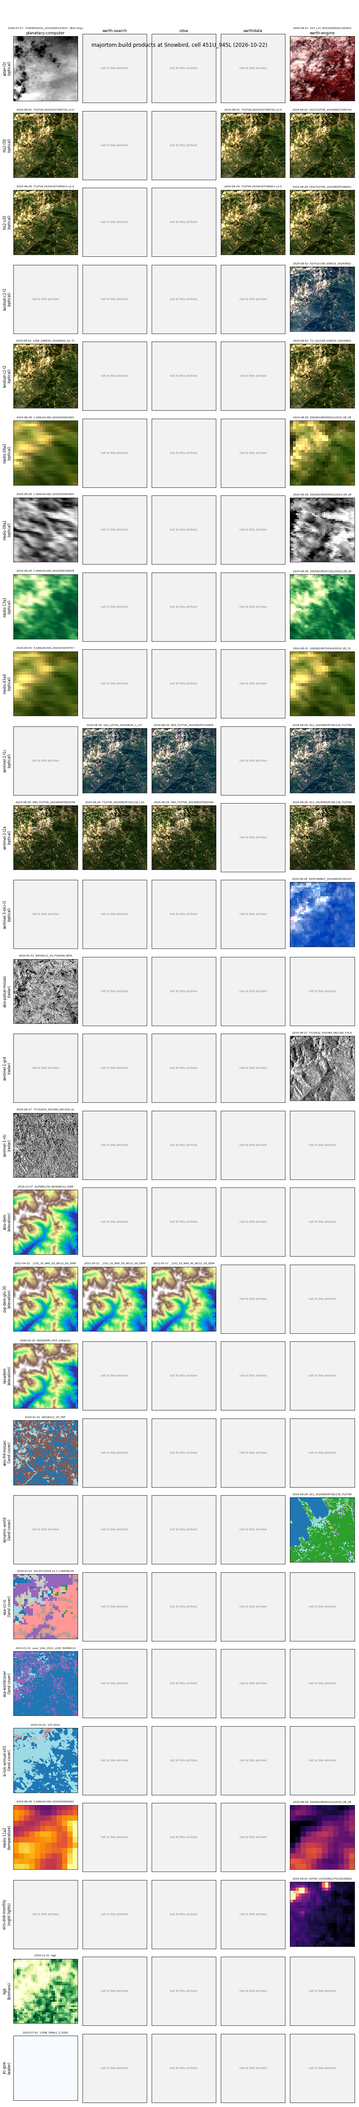
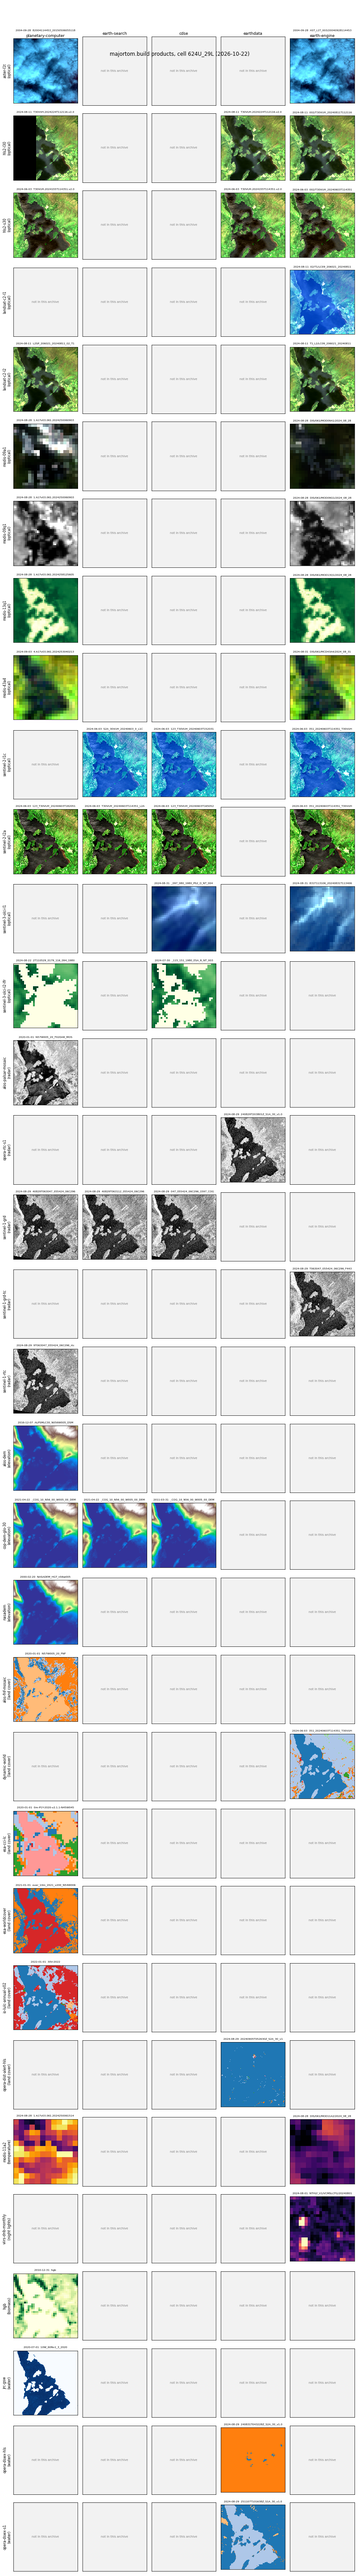
Builder: raw Sentinel-1 GRD, Sentinel-3 swaths, ASF access; gallery at Loch Lomond

diff --git a/majortom/build/backends/stac.py b/majortom/build/backends/stac.py
@@ -3,7 +3,8 @@
     search     STAC item search: one request per search (page size), retries, spacing for rate limits
     header     opens the asset's file header with GDAL
     read_tile  the file through a warped view (WarpedVRT) onto the window grid: nearest neighbour where the
-               file is already in the window's CRS (an exact copy), else the collection's resampling
+               file is already in the window's CRS (an exact copy), else the collection's resampling; files
+               with ground control points instead of a grid (raw Sentinel-1 GRD) are placed by those
     session    rasterio.Env with the archive's GDAL settings: credentials exist only inside it
 
 The GDAL settings per archive (public, unsigned S3, CDSE keys, Earthdata token) are defined here and named by
@@ -26,6 +27,7 @@ from rasterio.crs import CRS
 from rasterio.enums import Resampling
 from rasterio.session import Session
 from rasterio.vrt import WarpedVRT
+from rasterio.warp import reproject
 
 from ..collections import find_asset
 from ..credentials import cdse_keys, earthdata_token
@@ -93,10 +95,11 @@ def earthdata_env() -> dict:
     """GDAL settings for NASA Earthdata files: the token as bearer authentication, only while the Env is open.
 
     No HEAD request: Earthdata answers a HEAD with a link signed for HEAD only, and GDAL would reuse it for the
-    data reads (they then fail as "not recognized as being in a supported file format").
+    data reads (they then fail as "not recognized as being in a supported file format"). The token is kept on
+    redirects: ASF sends reads on to a second host (cumulus.asf.alaska.edu) that needs it too.
     """
     return dict(GDAL_OPTIONS, GDAL_HTTP_AUTH="BEARER", GDAL_HTTP_BEARER=earthdata_token(),
-                CPL_VSIL_CURL_USE_HEAD="NO")
+                CPL_VSIL_CURL_USE_HEAD="NO", CPL_VSIL_CURL_AUTHORIZATION_HEADER_ALLOWED_IF_REDIRECT="YES")
 
 
 # the four backend functions -----------------------------------------------------------------------------------
@@ -132,15 +135,20 @@ def search(archive: Archive, collection: str, sortby: list[dict] | None = None, 
     return retry(run, archive.retries)
 
 
-def _split(key: str) -> tuple[str, int | None]:
-    """An asset key, or "ASSET#n" for band n (1-based) of a multi-band file (ASTER's VNIR, SWIR, TIR)."""
+def _split(key: str) -> tuple[str, int | None, str | None]:
+    """An asset key; "ASSET#n" for band n (1-based) of a multi-band file (ASTER's VNIR, SWIR, TIR);
+    "ASSET:VARIABLE" for a variable of a netCDF swath placed by latitude and longitude (Sentinel-3)."""
+    key, _, variable = key.partition(":")
     asset, _, band = key.partition("#")
-    return asset, (int(band) if band else None)
+    return asset, (int(band) if band else None), (variable or None)
 
 
 def header(archive: Archive, item: pystac.Item, key: str) -> tuple[CRS, rasterio.Affine]:
-    """CRS and geotransform of one asset, from its file header."""
-    with rasterio.open(item.assets[find_asset(item, _split(key)[0])].href) as src:
+    """CRS and geotransform of one asset, from its file header (a swath: latitude/longitude, no grid)."""
+    asset, _, variable = _split(key)
+    if variable:
+        return CRS.from_epsg(4326), rasterio.Affine.identity()
+    with rasterio.open(item.assets[find_asset(item, asset)].href) as src:
         return src.crs, src.transform
 
 
@@ -148,8 +156,12 @@ def read_tile(archive: Archive, item: pystac.Item, key: str, win: Window, res: f
               method: str) -> tuple[np.ndarray, np.ndarray]:
     """One file onto the window grid: (bands, covered pixels). Pixels outside the file are 0."""
     n = win.pixels(res)
-    asset, band = _split(key)
+    asset, band, variable = _split(key)
+    if variable:
+        return _read_swath(item, asset, variable, win, res, n, Resampling[method])
     with rasterio.open(item.assets[find_asset(item, asset)].href) as src:
+        if src.crs is None and src.gcps[0]:
+            return _read_by_gcps(src, band, win, res, n, Resampling[method])
         same_crs = src.crs == CRS.from_user_input(win.crs)
         resampling = Resampling.nearest if same_crs else Resampling[method]
         with WarpedVRT(src, crs=win.crs, transform=win.transform(res), width=n, height=n,
@@ -158,6 +170,80 @@ def read_tile(archive: Archive, item: pystac.Item, key: str, win: Window, res: f
             indexes = None if band is None else [band, vrt.count]   # one band and the alpha band
             tile = retry(lambda: vrt.read(indexes))      # bands, then alpha (0 = not covered)
     return tile[:-1], tile[-1] > 0
+
+
+def _read_by_gcps(src, band: int | None, win: Window, res: float, n: int,
+                  resampling: Resampling) -> tuple[np.ndarray, np.ndarray]:
+    """A file placed by ground control points (raw Sentinel-1 GRD) onto the window grid: no terrain correction.
+
+    GDAL reads only the part of the file the window needs. 0 is "no data" in these files, so it marks coverage.
+    """
+    gcps, gcps_crs = src.gcps
+    bands = [band] if band else list(range(1, src.count + 1))
+    out = np.zeros((len(bands), n, n), src.dtypes[0])
+    for i, b in enumerate(bands):
+        retry(lambda: reproject(rasterio.band(src, b), out[i], gcps=gcps, src_crs=gcps_crs, src_nodata=0,
+                                dst_transform=win.transform(res), dst_crs=win.crs, dst_nodata=0,
+                                resampling=resampling))
+    return out, (out != 0).any(axis=0)
+
+
+def _gdal_path(href: str, variable: str) -> str:
+    """GDAL's name for one variable of a remote netCDF-4 (HDF5) file."""
+    path = "/vsis3/" + href[5:] if href.startswith("s3://") else f"/vsicurl/{href}"
+    return f'HDF5:"{path}"://{variable}'
+
+
+@lru_cache(maxsize=32)                                 # the bands of one sample share the scene's coordinates
+def _read_scaled(href: str, variable: str, block: tuple[int, int, int, int] | None = None
+                 ) -> tuple[np.ndarray, float | None]:
+    """A variable, or a block of it (col, row, width, height), with its CF scale and offset applied (fill: NaN)."""
+    from rasterio.windows import Window as Block
+
+    with rasterio.open(_gdal_path(href, variable)) as src:
+        raw = retry(lambda: src.read(1, window=Block(*block) if block else None))
+        fill = src.nodata
+        values = raw.astype("float32") * src.scales[0] + src.offsets[0]
+        if fill is not None:
+            values[raw == fill] = np.nan
+    return values, fill
+
+
+def _read_swath(item: pystac.Item, asset: str, variable: str, win: Window, res: float, n: int,
+                resampling: Resampling) -> tuple[np.ndarray, np.ndarray]:
+    """A Sentinel-3 swath variable onto the window grid, placed by its latitude and longitude arrays.
+
+    The tie-point coordinates (every 64th column) locate the block of rows and columns around the window; only
+    that block of the variable and of the full-resolution coordinates is read. Values are physical (CF scale and
+    offset applied); pixels without data, or outside the swath, are NaN and not covered.
+    """
+    from rasterio.warp import transform_bounds
+
+    west, south, east, north = transform_bounds(win.crs, "EPSG:4326", *win.bounds, densify_pts=21)
+    pad = 0.05
+    tie = item.assets[find_asset(item, "tie-geo-coordinates")].href
+    tie_lat, _ = _read_scaled(tie, "latitude")
+    tie_lon, _ = _read_scaled(tie, "longitude")
+    rows, cols = np.nonzero((tie_lat > south - pad) & (tie_lat < north + pad) &
+                            (tie_lon > west - pad) & (tie_lon < east + pad))
+    out = np.full((1, n, n), np.nan, "float32")
+    if not rows.size:
+        return out, np.zeros((n, n), bool)
+    geo, data = item.assets[find_asset(item, "geo-coordinates")].href, item.assets[find_asset(item, asset)].href
+    with rasterio.open(_gdal_path(geo, "latitude")) as src:
+        height, width = src.height, src.width
+    step = width // (tie_lat.shape[1] - 1) if tie_lat.shape[1] > 1 else 1
+    r0, r1 = max(rows.min() - 2, 0), min(rows.max() + 3, height)
+    c0, c1 = max((cols.min() - 1) * step, 0), min((cols.max() + 2) * step, width)
+    block = (int(c0), int(r0), int(c1 - c0), int(r1 - r0))
+    lat, _ = _read_scaled(geo, "latitude", block)
+    lon, _ = _read_scaled(geo, "longitude", block)
+    values, _ = _read_scaled(data, variable, block)
+    located = np.stack([lon, lat]).astype("float64")    # GDAL needs float64 coordinates, longitude first
+    retry(lambda: reproject(values, out[0], src_geoloc_array=located, src_crs=CRS.from_epsg(4326),
+                            src_nodata=np.nan, dst_transform=win.transform(res), dst_crs=CRS.from_user_input(win.crs),
+                            dst_nodata=np.nan, resampling=resampling))
+    return out, np.isfinite(out[0])
 
 
 @contextmanager

diff --git a/majortom/build/collections.py b/majortom/build/collections.py
@@ -43,7 +43,7 @@ def find_asset(item: pystac.Item, name: str) -> str | None:
 
 def declared_band(item: pystac.Item, key: str) -> dict:
     """The raster:bands entry for an asset key ("ASSET#n": band n of a multi-band asset), or {}."""
-    asset, _, n = key.partition("#")
+    asset, _, n = key.partition(":")[0].partition("#")
     fields = item.assets[find_asset(item, asset)].extra_fields
     bands = fields.get("raster:bands") or fields.get("bands") or []
     index = int(n) - 1 if n else 0
@@ -88,8 +88,9 @@ class Source:
         return self.assets.get(band, band)
 
     def asset(self, band: str) -> str:
-        """The item asset holding `band` (a key "VNIR#2" is band 2 of asset VNIR)."""
-        return self.key(band).partition("#")[0]
+        """The item asset holding `band` (a key "VNIR#2" is band 2 of asset VNIR; "otci:OTCI" variable OTCI of
+        the netCDF asset otci)."""
+        return self.key(band).partition("#")[0].partition(":")[0]
 
 
 @dataclass(frozen=True)
@@ -155,6 +156,7 @@ S2_CDSE_L2A = {"B01": "B01_60m", "B02": "B02_10m", "B03": "B03_10m", "B04": "B04
                "B11": "B11_20m", "B12": "B12_20m", "SCL": "SCL_20m"}     # native resolution of each band
 S2_PERIOD = ("2015-06-27", None)
 DSWX = {"WTR": "B01_WTR", "BWTR": "B02_BWTR", "CONF": "B03_CONF"}   # OPERA DSWx: band numbers in the asset names
+LFR = {"GIFAPAR": "gifapar:GIFAPAR", "OTCI": "otci:OTCI", "IWV": "iwv:IWV"}   # netCDF asset : variable
 
 
 @dataclass(frozen=True)
@@ -305,13 +307,26 @@ COLLECTIONS = {
     "viirs-dnb-monthly": Collection(("avg_rad", "cf_cvg"), res_m=500, kind="night lights",   # nW/cm2/sr, cloud-free
                                     sources={"earth-engine": Source("NOAA/VIIRS/DNB/MONTHLY_V1/VCMSLCFG",
                                                                     period=("2014-01-01", None))}),
+    # Sentinel-3 OLCI: swaths; CDSE and Planetary Computer files are netCDF placed by their latitude and longitude
     "sentinel-3-olci-l1": Collection(OLCI, res_m=300, native=False, fill=0,   # top-of-atmosphere radiance
-                                     sources={"earth-engine": Source("COPERNICUS/S3/OLCI",
-                                                                     period=("2016-10-18", None))}),
+                                     sources={"earth-engine": Source("COPERNICUS/S3/OLCI", period=("2016-10-18", None)),
+                                              "cdse": Source("sentinel-3-olci-1-efr-ntc",
+                                                             {b: f"{b}Data:{b}" for b in OLCI},
+                                                             period=("2020-04-16", None))}),
+    "sentinel-3-olci-l2-lfr": Collection(("GIFAPAR", "OTCI", "IWV"), res_m=300, native=False,   # land products
+                                         sources={"planetary-computer": Source("sentinel-3-olci-lfr-l2-netcdf", LFR,
+                                                                               period=("2016-04-25", None)),
+                                                  "cdse": Source("sentinel-3-olci-2-lfr-ntc", LFR,
+                                                                 period=("2016-04-25", None))}),
     "sentinel-1-rtc": Collection(("vv", "vh"), kind="radar",       # backscatter (gamma0, linear), UTM 10 m; no clouds
                                  period=("2014-10-10", None)),
-    "sentinel-1-grd": Collection(("vv", "vh"), kind="radar",   # terrain-corrected by Earth Engine; backscatter in dB
-                                 sources={"earth-engine": Source("COPERNICUS/S1_GRD", period=("2014-10-03", None))}),
+    # raw GRD: amplitude digital numbers, placed with the files' ground control points (no terrain correction)
+    "sentinel-1-grd": Collection(("vv", "vh"), kind="radar", res_m=10, native=False,
+                                 sources={"planetary-computer": Source("sentinel-1-grd", period=("2014-10-10", None)),
+                                          "earth-search": Source("sentinel-1-grd", period=("2014-10-10", None)),
+                                          "cdse": Source("sentinel-1-grd", period=("2014-10-04", None))}),
+    "sentinel-1-grd-tc": Collection(("vv", "vh"), kind="radar",  # terrain-corrected by Earth Engine; backscatter in dB
+                                    sources={"earth-engine": Source("COPERNICUS/S1_GRD", period=("2014-10-03", None))}),
     # OPERA (NASA JPL): analysis-ready products from Sentinel-1 and HLS, UTM 30 m; asset keys found by suffix
     "opera-rtc-s1": Collection(("VV", "VH"), kind="radar",          # gamma0 backscatter, linear; one burst per item
                                sources={"earthdata": Source("ASF/OPERA_L2_RTC-S1_V1_1", period=("2016-04-14", None))}),

diff --git a/docs/evidence/gallery.py b/docs/evidence/gallery.py
@@ -38,8 +38,10 @@ RGB = {                                                            # red, green,
     "sentinel-3-olci-l1": ("Oa08_radiance", "Oa06_radiance", "Oa03_radiance"),
 }
 ONE = {                                                            # one band and a colour map per product
+    "sentinel-3-olci-l2-lfr": ("OTCI", "YlGn"),                    # OLCI terrestrial chlorophyll index
     "modis-09q1": ("sur_refl_b02", "gray"), "modis-13q1": ("NDVI", "YlGn"), "modis-11a2": ("LST_Day_1km", "inferno"),
-    "sentinel-1-rtc": ("vv", "gray"), "sentinel-1-grd": ("vv", "gray"), "alos-palsar-mosaic": ("HH", "gray"),
+    "sentinel-1-rtc": ("vv", "gray"), "sentinel-1-grd": ("vv", "gray"), "sentinel-1-grd-tc": ("vv", "gray"),
+    "alos-palsar-mosaic": ("HH", "gray"),
     "cop-dem-glo-30": ("DEM", "terrain"), "nasadem": ("elevation", "terrain"), "alos-dem": ("data", "terrain"),
     "opera-rtc-s1": ("VV", "gray"), "hgb": ("aboveground", "YlGn"), "jrc-gsw": ("occurrence", "Blues"),
     "viirs-dnb-monthly": ("avg_rad", "magma"),
@@ -62,6 +64,8 @@ def physical(meta: dict, arrays, band: str) -> np.ndarray:
         values = (values - offset) * 0.0001
     if band.lower() in ("vv", "vh") and meta["collection"] in ("sentinel-1-rtc", "opera-rtc-s1"):   # linear -> dB
         values = 10 * np.log10(np.clip(values, 1e-5, None))
+    elif meta["collection"] == "sentinel-1-grd":                         # amplitude DN -> 20 log10, uncalibrated
+        values = 20 * np.log10(np.clip(values, 1, None))
     if meta["collection"] == "alos-palsar-mosaic":                       # DN -> gamma0 dB (JAXA formula)
         values = 10 * np.log10(np.clip(values, 1, None) ** 2) - 83
     return values
@@ -76,8 +80,10 @@ def image(name: str, meta: dict, arrays) -> tuple[np.ndarray, str | None]:
     if name in ONE:
         band, cmap = ONE[name]
         return physical(meta, arrays, band), cmap
-    if name in CLASSES:
-        return physical(meta, arrays, CLASSES[name]), "tab20"
+    if name in CLASSES:                                          # classes: one colour per class present
+        values = physical(meta, arrays, CLASSES[name])
+        _, index = np.unique(values, return_inverse=True)
+        return index.reshape(values.shape).astype(float), "tab20"
     return physical(meta, arrays, meta["bands"][0]), "gray"
 
 
@@ -109,7 +115,7 @@ def main(samples: Path, date: str) -> Path:
             ax.set_xticks([]), ax.set_yticks([])
             if archive in found:
                 meta, im, cmap = found[archive]
-                low, high = limits[cmap]
+                low, high = (0, 19) if cmap == "tab20" else limits[cmap]
                 shown = np.clip((im - low) / (high - low or 1), 0, 1)
                 ax.imshow(shown if cmap is None else im, cmap=cmap, vmin=None if cmap is None else low,
                           vmax=None if cmap is None else high, interpolation="nearest")

diff --git a/docs/evidence/build_speed.py b/docs/evidence/build_speed.py
@@ -47,7 +47,10 @@ STORAGE = {                                                      # one file host
     "earth-search": "https://e84-earth-search-sentinel-data.s3.us-west-2.amazonaws.com",
     "cdse": "https://eodata.dataspace.copernicus.eu",
     "earthdata": "https://data.lpdaac.earthdatacloud.nasa.gov",
+    "earth-engine": "https://earthengine-highvolume.googleapis.com",
 }
+CATALOGUE = {"earth-engine": "https://earthengine.googleapis.com"}   # no STAC address
+SMALL = {"earth-engine": 2}       # cells per pair for archives whose quota is shared (Earth Engine: wiki-eo, small)
 
 
 def country() -> str:
@@ -167,6 +170,8 @@ def report(rows: pd.DataFrame, errors: pd.DataFrame, context: dict, n_cells: int
         ".npz + .json.",
         "- Dates per product: as in `tests/test_products.py`; cloud=None, so any scene is accepted.",
         "- Each pair runs alone, one after another; archives are not loaded at the same time.",
+        f"- Earth Engine pairs use {SMALL['earth-engine']} cells each (a shared project quota); samples/hour are "
+        "per those cells.",
         "- Search times depend on each archive's load at run time; compare runs, not single numbers.",
         "",
     ])
@@ -182,7 +187,8 @@ def main() -> None:
                    country=("not stated" if args.region == "none" else args.region or country()),
                    cpus=len(os.sched_getaffinity(0)), software=software(), network={})
     archives = [a for a in ARCHIVES if has_credentials(a)]
-    context["network"] = {a: dict(catalogue=round_trip(ARCHIVES[a].stac_url), storage=round_trip(STORAGE[a]))
+    context["network"] = {a: dict(catalogue=round_trip(CATALOGUE.get(a, ARCHIVES[a].stac_url)),
+                                  storage=round_trip(STORAGE[a]))
                           for a in archives}
     cells = build.cells_in(AREA, d=10).reset_index(drop=True).head(args.cells)
     rows, errors = [], []
@@ -192,7 +198,8 @@ def main() -> None:
                 if archive not in archives:
                     print(f"skip {name}@{archive}: no credentials", flush=True)
                     continue
-                pair_rows, pair_errors = run_pair(name, archive, cells, Path(tmp) / archive)
+                pair_cells = cells.head(SMALL.get(archive, len(cells)))
+                pair_rows, pair_errors = run_pair(name, archive, pair_cells, Path(tmp) / archive)
                 print(f"{name}@{archive}: {len(pair_rows)} band reads, {len(pair_errors)} failed", flush=True)
                 rows += pair_rows
                 errors.append(pair_errors)

diff --git a/tests/test_products.py b/tests/test_products.py
@@ -24,16 +24,17 @@ PLACE = (-4.58, 56.09)            # cell 624U_29L: south Loch Lomond, its island
 SUMMER = "2024-06-01/2024-08-31"                                 # one window for every product that allows it
 DATES = {                                                        # dates with data at PLACE; static: None
     **{name: SUMMER for name in ("sentinel-2-l2a", "sentinel-2-l1c", "landsat-c2-l2", "landsat-c2-l1", "hls2-s30",
-                                 "hls2-l30", "sentinel-1-rtc", "sentinel-1-grd", "dynamic-world", "modis-09a1",
-                                 "modis-09q1", "modis-43a4", "modis-11a2", "modis-13q1", "viirs-dnb-monthly",
-                                 "sentinel-3-olci-l1", "opera-rtc-s1", "opera-dswx-hls", "opera-dswx-s1",
-                                 "opera-dist-alert-hls")},
+                                 "hls2-l30", "sentinel-1-rtc", "sentinel-1-grd", "sentinel-1-grd-tc",
+                                 "dynamic-world", "modis-09a1", "modis-09q1", "modis-43a4", "modis-11a2",
+                                 "modis-13q1", "viirs-dnb-monthly", "sentinel-3-olci-l1", "opera-rtc-s1",
+                                 "opera-dswx-hls", "opera-dswx-s1", "opera-dist-alert-hls", "sentinel-3-olci-l2-lfr")},
     "aster-l1t": "2004-07-01/2004-09-30",                        # Planetary Computer: 2000-2006 only
     "alos-palsar-mosaic": "2020", "alos-fnf-mosaic": "2020", "esa-worldcover": "2021",   # yearly: nearest version
     "io-lulc-annual-v02": "2022", "esa-cci-lc": "2020",
 }
 MAX_NODATA = 0.05
-MASKED = {"dynamic-world": 0.4}                                  # masks cloud and shadow pixels itself (mountains)
+MASKED = {"dynamic-world": 0.4,                                  # masks cloud and shadow pixels itself (mountains)
+          "sentinel-3-olci-l2-lfr": 0.9}                         # masks clouds itself; one cloudy Scottish summer
 
 
 def has_credentials(archive: str) -> bool:

diff --git a/majortom/build/credentials.py b/majortom/build/credentials.py
@@ -179,6 +179,8 @@ def main(argv: list[str] | None = None) -> int:
             return 1
         save_earthdata(token)
         print(f"saved to {earthdata_token_file()} (owner-only)")
+        print("For OPERA RTC-S1 (ASF), approve ASF once: while logged in to urs.earthdata.nasa.gov, open an ASF "
+              "file link (see docs/ARCHIVES.md) and accept 'Alaska Satellite Facility Data Access' and its licence.")
         test = lambda: check("earthdata", "LPCLOUD/HLSS30_2.0", "B04")    # noqa: E731
     if not args.no_check:
         try:

diff --git a/docs/ARCHIVES.md b/docs/ARCHIVES.md
@@ -46,10 +46,12 @@ Periods as each archive's catalogue declares them (`–` with no end: ongoing); 
 | `modis-43a4` | optical | 7 | [2000-02 –](https://planetarycomputer.microsoft.com/dataset/modis-43A4-061) | — | — | — | [2000-02 –](https://developers.google.com/earth-engine/datasets/catalog/MODIS_061_MCD43A4) |
 | `sentinel-2-l1c` | optical | 13 | — | [2015-06 –](https://radiantearth.github.io/stac-browser/#/external/earth-search.aws.element84.com/v1/collections/sentinel-2-l1c) | [2015-06 –](https://browser.stac.dataspace.copernicus.eu/collections/sentinel-2-l1c) | — | [2015-06 –](https://developers.google.com/earth-engine/datasets/catalog/COPERNICUS_S2_HARMONIZED) |
 | `sentinel-2-l2a` | optical | 12 | [2015-06 –](https://planetarycomputer.microsoft.com/dataset/sentinel-2-l2a) | [2015-06 –](https://radiantearth.github.io/stac-browser/#/external/earth-search.aws.element84.com/v1/collections/sentinel-2-c1-l2a) | [2015-06 –](https://browser.stac.dataspace.copernicus.eu/collections/sentinel-2-l2a) | — | [2017-03 –](https://developers.google.com/earth-engine/datasets/catalog/COPERNICUS_S2_SR_HARMONIZED) |
-| `sentinel-3-olci-l1` | optical | 21 | — | — | — | — | [2016-10 –](https://developers.google.com/earth-engine/datasets/catalog/COPERNICUS_S3_OLCI) |
+| `sentinel-3-olci-l1` | optical | 21 | — | — | [2020-04 –](https://browser.stac.dataspace.copernicus.eu/collections/sentinel-3-olci-1-efr-ntc) | — | [2016-10 –](https://developers.google.com/earth-engine/datasets/catalog/COPERNICUS_S3_OLCI) |
+| `sentinel-3-olci-l2-lfr` | optical | 3 | [2016-04 –](https://planetarycomputer.microsoft.com/dataset/sentinel-3-olci-lfr-l2-netcdf) | — | [2016-04 –](https://browser.stac.dataspace.copernicus.eu/collections/sentinel-3-olci-2-lfr-ntc) | — | — |
 | `alos-palsar-mosaic` | radar | 2 | [2015-01 – 2021-12](https://planetarycomputer.microsoft.com/dataset/alos-palsar-mosaic) | — | — | — | — |
 | `opera-rtc-s1` | radar | 2 | — | — | — | [2016-04 –](https://www.earthdata.nasa.gov/data/catalog/asf-opera-l2-rtc-s1-v1-1) | — |
-| `sentinel-1-grd` | radar | 2 | — | — | — | — | [2014-10 –](https://developers.google.com/earth-engine/datasets/catalog/COPERNICUS_S1_GRD) |
+| `sentinel-1-grd` | radar | 2 | [2014-10 –](https://planetarycomputer.microsoft.com/dataset/sentinel-1-grd) | [2014-10 –](https://radiantearth.github.io/stac-browser/#/external/earth-search.aws.element84.com/v1/collections/sentinel-1-grd) | [2014-10 –](https://browser.stac.dataspace.copernicus.eu/collections/sentinel-1-grd) | — | — |
+| `sentinel-1-grd-tc` | radar | 2 | — | — | — | — | [2014-10 –](https://developers.google.com/earth-engine/datasets/catalog/COPERNICUS_S1_GRD) |
 | `sentinel-1-rtc` | radar | 2 | [2014-10 –](https://planetarycomputer.microsoft.com/dataset/sentinel-1-rtc) | — | — | — | — |
 | `alos-dem` | elevation | 1 | [static](https://planetarycomputer.microsoft.com/dataset/alos-dem) | — | — | — | — |
 | `cop-dem-glo-30` | elevation | 1 | [static](https://planetarycomputer.microsoft.com/dataset/cop-dem-glo-30) | [static](https://radiantearth.github.io/stac-browser/#/external/earth-search.aws.element84.com/v1/collections/cop-dem-glo-30) | [static](https://browser.stac.dataspace.copernicus.eu/collections/cop-dem-glo-30-dged-cog) | — | — |
@@ -96,8 +98,13 @@ Element 84's catalogue of the AWS Open Data buckets.
 ### NASA Earthdata (`earthdata`)
 
 - **Holds:** HLS L30 (from 2013) and S30 (from 2015) and OPERA DIST-ALERT from LP DAAC; OPERA DSWx-HLS and DSWx-S1 from PO.DAAC; OPERA RTC-S1 from ASF. Collections are named `PROVIDER/ID`.
-- **Access:** a token (not your password). Generate one at <https://urs.earthdata.nasa.gov> (Generate Token; valid 60 days), then run `python -m majortom.build.credentials earthdata`. **ASF** also needs a one-off approval: open any ASF download link (e.g. on <https://search.asf.alaska.edu>) while logged in, and accept its licence; until then RTC-S1 reads are refused.
-- **Notes:** HLS is identical to Planetary Computer's where both have it, but about 12× slower per sample; use it for 2013–2019. OPERA asset names carry the item id, so bands are matched by the end of the name.
+- **Access:** a token (not your password). Generate one at <https://urs.earthdata.nasa.gov> (Generate Token; valid 60 days), then run `python -m majortom.build.credentials earthdata`.
+- **ASF (OPERA RTC-S1) needs a one-off approval** of its download application for your account; until then its reads are refused (401):
+  1. Log in at <https://urs.earthdata.nasa.gov>.
+  2. In the same browser, open an ASF file link, for example <https://datapool.asf.alaska.edu/RTC/OPERA-S1/OPERA_L2_RTC-S1_T030-062622-IW1_20240604T175938Z_20240604T203842Z_S1A_30_v1.0_VV.tif> (any Sentinel-1 download on <https://search.asf.alaska.edu> works too).
+  3. Authorise **Alaska Satellite Facility Data Access** and accept its licence when asked. When the file starts downloading, approval is done; cancel the download.
+  4. The same token then works for ASF; nothing to set up again.
+- **Notes:** HLS is identical to Planetary Computer's where both have it, but about 12× slower per sample; use it for 2013–2019. OPERA asset names carry the item id, so bands are matched by the end of the name. ASF redirects reads to a second host that needs the token as well, so the token is sent on through NASA's redirects.
 
 ### Google Earth Engine (`earth-engine`)
 
@@ -142,7 +149,7 @@ Rough guide at 16 workers (4 for CDSE): HLS and Copernicus DEM several thousand 
 | Message | Cause and fix |
 |---|---|
 | `PermissionError: CDSE needs S3 keys` (or Earthdata, Earth Engine) | Credentials not set up: run the setup command for that archive. |
-| `... refused the S3 keys` / `refused the token` (401, 403) | Keys or token expired or wrong: create new ones and run the setup command again. |
+| `... refused the S3 keys` / `refused the token` (401, 403) | Keys or token expired or wrong: create new ones and run the setup command again. For OPERA RTC-S1, ASF also needs the one-off approval in section 3 (NASA Earthdata). |
 | `429` in an error | The catalogue rate-limited the search: retries wait 1, 2, 4 … s; CDSE searches are spaced automatically. Rerun later. |
 | `not recognized as being in a supported file format` | The server sent a web page instead of the file (a login or a refused link). For Earthdata: check the token. |
 | `has <product> for (...), not <dates>` | The source has no data for those dates; the message lists archives that do. |

diff --git a/LOG.md b/LOG.md
@@ -1,5 +1,6 @@
 # Log
 
+- 2026-10-22 Raw Sentinel-1 GRD from PC, Earth Search, CDSE (placed by ground control points; EE terrain-corrected now sentinel-1-grd-tc); Sentinel-3 OLCI swaths from PC and CDSE (L1 radiance, new L2 land product); Earthdata token kept on redirects (ASF); ASF approval steps in docs; gallery at Loch Lomond: 101 of 103 pass (PC HLS L30 missing a tile)
 - 2026-10-22 Test cell moved to 624U_29L (south Loch Lomond; June-August 2024); OPERA RTC-S1, DSWx-HLS, DSWx-S1, DIST-ALERT via Earthdata (one archive over ASF, PO.DAAC, LP DAAC); bands found by asset-name suffix
 - 2026-10-22 Products: MODIS (09A1, 09Q1, 43A4, 11A2, 13Q1), ASTER L1T, VIIRS monthly, Sentinel-3 OLCI (27 products, 45 pairs, all build); L1C swath edges now count as no data; product gallery -> [image](docs/reports/2026-10-22-product-gallery.png); docs/ARCHIVES.md and CONTRIBUTING.md
 - 2026-10-22 Builder: Earth Engine backend (backends/earthengine.py; computePixels); S2 L2A/L1C, Landsat L2 (4-9) and new L1 (8-9), HLS, new dynamic-world and sentinel-1-grd; S2, Landsat 5/9 and HLS L30 identical to Planetary Computer; far-zone tiles ignored for every archive
